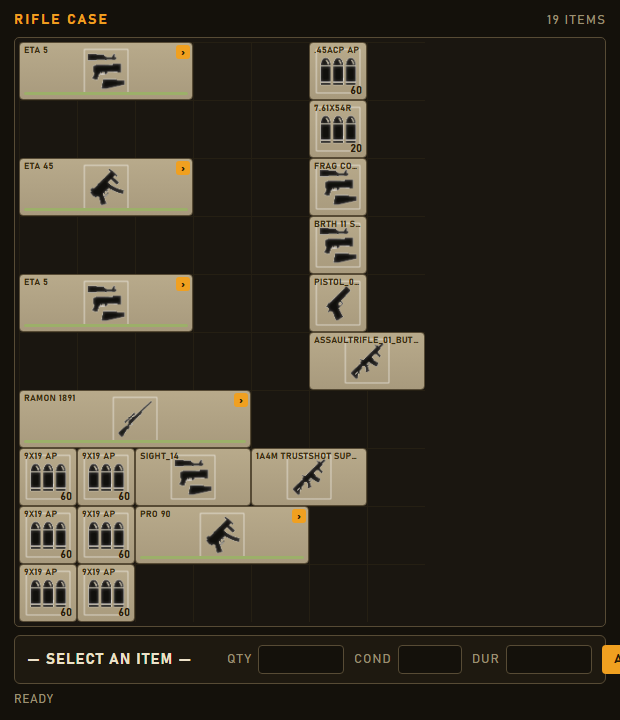
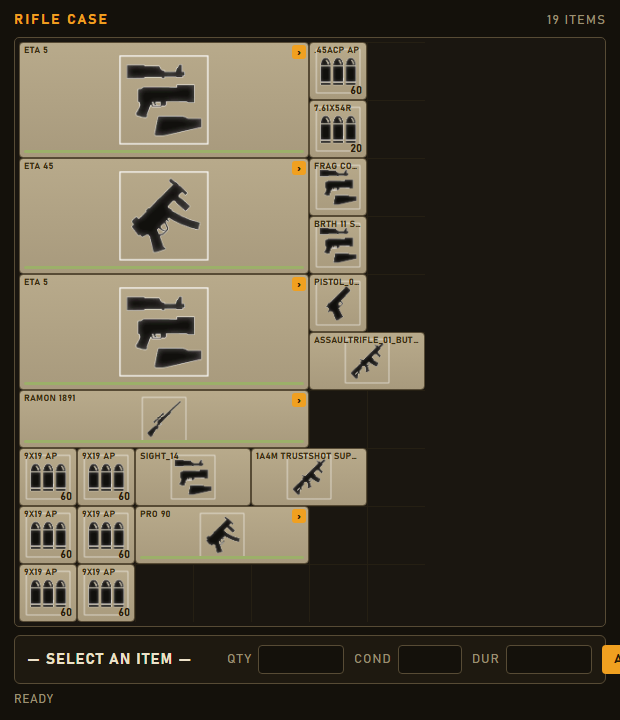
Fix weapon footprints from game data; drop per-skill goal
Assembled weapons render at their true grid footprint: recovered exactly from
the tight item packing (gap to the next item), and for the last item in a row
sized from the weapon's own/attached-part extents (long barrels nested under the
stock are found transitively) instead of an edge-fill that swallowed gaps. The
engine computes one footprint per item (gridW/gridH) used by BOTH the grid
display and occupancy, so weapons no longer render undersized or overlap on add.
Validated against the in-game rifle case and stash. Also drop the meaningless
per-skill XP-goal input (only level is editable now).

Changed region(s): [[0.0306, 0.0611, 0.521, 0.6417]]

diff --git a/app/src/layout.ts b/app/src/layout.ts
@@ -13,24 +13,13 @@ export interface Block {
   h: number;
 }
 
-/** An item's true footprint: catalog base size, expanded to the assembled
- * part-grid (BaseComponent_width/_height) for weapons. This must match the
- * engine's `occupied_size` so what you see is exactly what's reserved. */
-function footprint(it: ItemView): { w: number; h: number } {
-  return {
-    w: Math.max(it.baseW, it.asmW ?? 0, 1),
-    h: Math.max(it.baseH, it.asmH ?? 0, 1),
-  };
-}
-
-/** Lay out the children of one container (items already filtered to a parent). */
+/** Lay out the children of one container. Footprints (`gridW`/`gridH`) are
+ * computed by the engine — including assembled-weapon sizing recovered from the
+ * packing — so display matches occupancy exactly. */
 export function gridBlocks(items: ItemView[]): { blocks: Block[]; gw: number; gh: number } {
   const blocks: Block[] = items
     .filter((it) => it.i !== null && it.j !== null && it.i! >= 0 && it.j! >= 0)
-    .map((it) => {
-      const { w, h } = footprint(it);
-      return { item: it, i: it.i!, j: it.j!, w, h };
-    });
+    .map((it) => ({ item: it, i: it.i!, j: it.j!, w: Math.max(it.gridW, 1), h: Math.max(it.gridH, 1) }));
   const gw = blocks.reduce((m, b) => Math.max(m, b.i + b.w), 0) || 1;
   const gh = blocks.reduce((m, b) => Math.max(m, b.j + b.h), 0) || 1;
   return { blocks, gw, gh };

diff --git a/app/src/components/CharacterPanel.tsx b/app/src/components/CharacterPanel.tsx
@@ -76,7 +76,6 @@ export default function CharacterPanel(p: Props) {
 
 function SkillRow(p: { sk: SkillView; onSet: (id: number, l: number | null, g: number | null) => void }) {
   const [lvl, setLvl] = createSignal(p.sk.level != null ? String(p.sk.level) : "");
-  const [goal, setGoal] = createSignal(p.sk.nextGoal != null ? String(p.sk.nextGoal) : "");
   return (
     <div class="cp-skill" classList={{ "cp-skill-off": p.sk.disabled }}>
       <Show when={p.sk.icon}>
@@ -87,8 +86,9 @@ function SkillRow(p: { sk: SkillView; onSet: (id: number, l: number | null, g: n
       <label class="fld">LVL<input class="narrow" type="number" placeholder="0" value={lvl()}
         onInput={(e) => setLvl(e.currentTarget.value)} /></label>
       <Show when={p.sk.maxLevel}><span class="cp-skill-max">/ {p.sk.maxLevel}</span></Show>
-      <label class="fld">GOAL<input type="number" value={goal()} onInput={(e) => setGoal(e.currentTarget.value)} /></label>
-      <button onClick={() => p.onSet(p.sk.id, numOrNull(lvl()), numOrNull(goal()))}>SET</button>
+      <span class="grow" />
+      {/* Only level matters; the per-skill XP goal is left untouched. */}
+      <button onClick={() => p.onSet(p.sk.id, numOrNull(lvl()), null)}>SET</button>
     </div>
   );
 }

diff --git a/app/src/api.ts b/app/src/api.ts
@@ -17,6 +17,8 @@ export interface ItemView {
   baseH: number;
   asmW: number | null;
   asmH: number | null;
+  gridW: number;
+  gridH: number;
   qty: number | null;
   conditionD: number | null;
   conditionMt: number | null;

diff --git a/app/engine/src/model.rs b/app/engine/src/model.rs
@@ -233,9 +233,103 @@ pub fn occupied_size(item: &Value, dims: &Dims) -> (i64, i64) {
     (cw.max(bw.unwrap_or(0)).max(1), ch.max(bh.unwrap_or(0)).max(1))
 }
 
-/// Cells occupied by items directly parented to `owner_id` (negative positions
-/// are equipped/special and skipped). Uses the true footprint (`occupied_size`).
+/// True grid footprint of each child of `owner_id`, keyed by item Id.
+///
+/// Assembled weapons render larger than their catalog/part-grid size; the game
+/// encodes the real size by packing items tightly, so we recover each weapon's
+/// footprint as the gap to the next item in its row (width) / column (height),
+/// and — when it's the last item in a row — out to the grid edge (long guns
+/// like the Ramon fill the row). Normal (non-assembled) items keep catalog dims.
+/// Display and occupancy both use this so what you see is exactly what's reserved.
+pub fn container_footprints(items: &[Value], owner_id: &str, dims: &Dims) -> HashMap<String, (i64, i64)> {
+    struct P {
+        id: String,
+        i: i64,
+        j: i64,
+        cw: i64,
+        ch: i64,
+        bw: i64,
+        bh: i64,
+        // Largest attached-part dims (barrel/stock) — sets a long gun's size
+        // when it's the last item in a row and packing can't reveal it.
+        part_w: i64,
+        part_h: i64,
+        assembled: bool,
+    }
+    let mut ps: Vec<P> = Vec::new();
+    for it in items {
+        if parent_id(it) != Some(owner_id) {
+            continue;
+        }
+        let (i, j) = pos_ij(it);
+        if i < 0 || j < 0 {
+            continue;
+        }
+        let id = item_id(it).unwrap_or("").to_string();
+        let (cw, ch) = item_size(template_id(it), dims);
+        let (bw, bh) = base_component_wh(it);
+        // Max catalog dims among ALL attached parts (descendants) — a long
+        // barrel is often nested under the stock, so scan transitively.
+        let (mut part_w, mut part_h) = (0, 0);
+        let mut stack = vec![id.clone()];
+        let mut seen: HashSet<String> = HashSet::new();
+        while let Some(pid) = stack.pop() {
+            for child in items {
+                if parent_id(child) == Some(pid.as_str()) {
+                    let cid = item_id(child).unwrap_or("").to_string();
+                    if !seen.insert(cid.clone()) {
+                        continue;
+                    }
+                    let (pw, ph) = item_size(template_id(child), dims);
+                    part_w = part_w.max(pw);
+                    part_h = part_h.max(ph);
+                    stack.push(cid);
+                }
+            }
+        }
+        ps.push(P {
+            id,
+            i,
+            j,
+            cw,
+            ch,
+            bw: bw.unwrap_or(0),
+            bh: bh.unwrap_or(0),
+            part_w,
+            part_h,
+            assembled: bw.is_some() || bh.is_some(),
+        });
+    }
+    let mut out = HashMap::new();
+    for p in &ps {
+        let (mut w, mut h) = (p.cw, p.ch);
+        if p.assembled {
+            // Exact when a neighbor pins the size (tight packing); otherwise the
+            // weapon's own/part extents (never an edge-fill that swallows gaps).
+            let right = ps.iter().filter(|q| q.j == p.j && q.i > p.i).map(|q| q.i).min();
+            w = right.map(|r| r - p.i).unwrap_or_else(|| p.cw.max(p.bw).max(p.part_w));
+            let below = ps.iter().filter(|q| q.i == p.i && q.j > p.j).map(|q| q.j).min();
+            h = below.map(|b| b - p.j).unwrap_or_else(|| p.ch.max(p.bh).max(p.part_h));
+            w = w.max(p.cw).max(p.bw);
+            h = h.max(p.ch).max(p.bh);
+        }
+        out.insert(p.id.clone(), (w.max(1), h.max(1)));
+    }
+    out
+}
+
+/// The declared `BaseComponent_width` of the container item itself, if any.
+pub fn declared_width(items: &[Value], owner_id: &str) -> Option<i64> {
+    items
+        .iter()
+        .find(|it| item_id(it) == Some(owner_id))
+        .and_then(|owner| base_component_wh(owner).0)
+}
+
+/// Cells occupied by items directly parented to `owner_id`, using each item's
+/// true footprint (`container_footprints`) so placement never overlaps a weapon.
 pub fn compute_occupancy(items: &[Value], owner_id: &str, dims: &Dims) -> HashSet<(i64, i64)> {
+    let fps = container_footprints(items, owner_id, dims);
     let mut occ = HashSet::new();
     for it in items {
         if parent_id(it) != Some(owner_id) {
@@ -245,7 +339,10 @@ pub fn compute_occupancy(items: &[Value], owner_id: &str, dims: &Dims) -> HashSe
         if i < 0 || j < 0 {
             continue;
         }
-        let (w, h) = occupied_size(it, dims);
+        let (w, h) = fps
+            .get(item_id(it).unwrap_or(""))
+            .copied()
+            .unwrap_or_else(|| occupied_size(it, dims));
         for di in 0..w {
             for dj in 0..h {
                 occ.insert((i + di, j + dj));

diff --git a/app/engine/src/snapshot.rs b/app/engine/src/snapshot.rs
@@ -27,6 +27,10 @@ pub struct ItemView {
     /// Assembled-weapon part-grid extents (`BaseComponent_width/_height`), if any.
     pub asm_w: Option<i64>,
     pub asm_h: Option<i64>,
+    /// TRUE grid footprint to render/reserve (assembled weapons recovered from
+    /// packing; normal items = catalog). Matches the engine's occupancy.
+    pub grid_w: i64,
+    pub grid_h: i64,
     pub qty: Option<i64>,
     pub condition_d: Option<f64>,
     pub condition_mt: Option<f64>,
@@ -129,6 +133,17 @@ fn build_items(
         }
     }
 
+    // True grid footprints per container (so display == occupancy). Computed
+    // once per distinct parent that holds children.
+    let mut footprints: HashMap<String, (i64, i64)> = HashMap::new();
+    let parents: HashSet<String> = items
+        .iter()
+        .filter_map(|it| model::parent_id(it).map(|s| s.to_string()))
+        .collect();
+    for owner in &parents {
+        footprints.extend(model::container_footprints(items, owner, dims));
+    }
+
     let mut out = Vec::with_capacity(items.len());
     for it in items {
         let Some(id) = model::item_id(it) else { continue };
@@ -147,6 +162,7 @@ fn build_items(
         } else {
             String::new()
         };
+        let (grid_w, grid_h) = footprints.get(id).copied().unwrap_or((base_w, base_h));
         out.push(ItemView {
             id: id.to_string(),
             parent_id: model::parent_id(it).map(|s| s.to_string()),
@@ -159,6 +175,8 @@ fn build_items(
             base_h,
             asm_w,
             asm_h,
+            grid_w,
+            grid_h,
             qty: ad.and_then(|m| m.get("StackableComponent_quantity")).and_then(|v| v.as_i64()),
             condition_d: num(ad, "Condition_d"),
             condition_mt: num(ad, "Condition_mt"),
